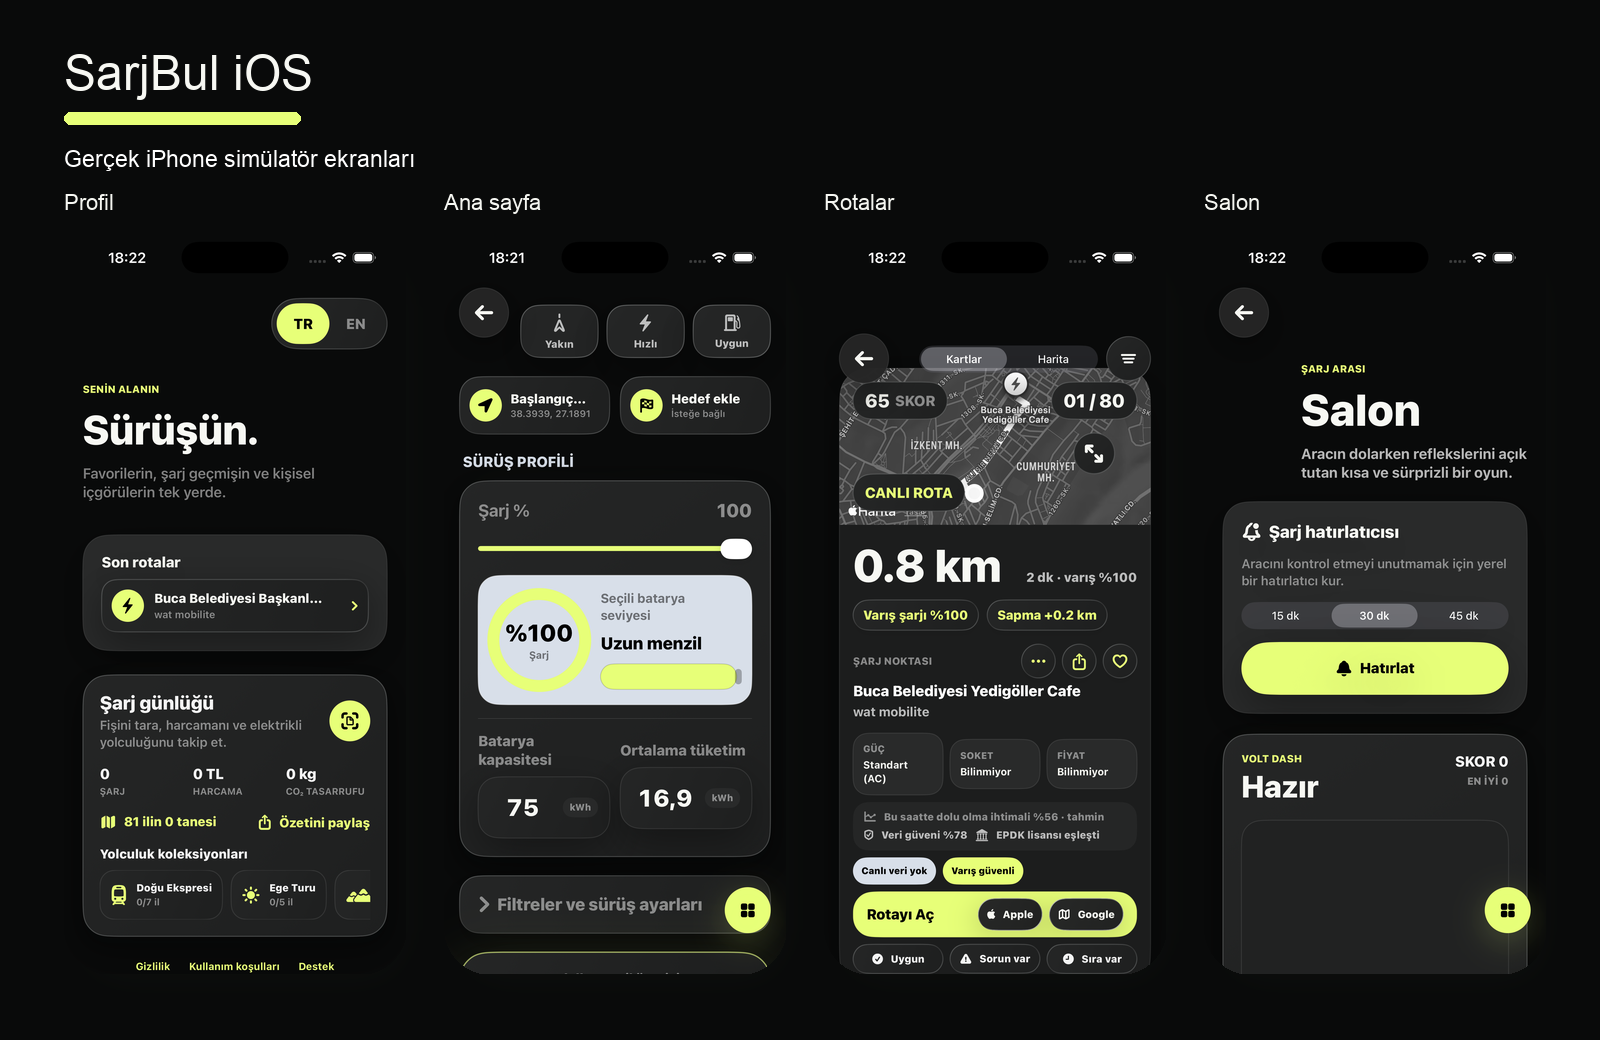
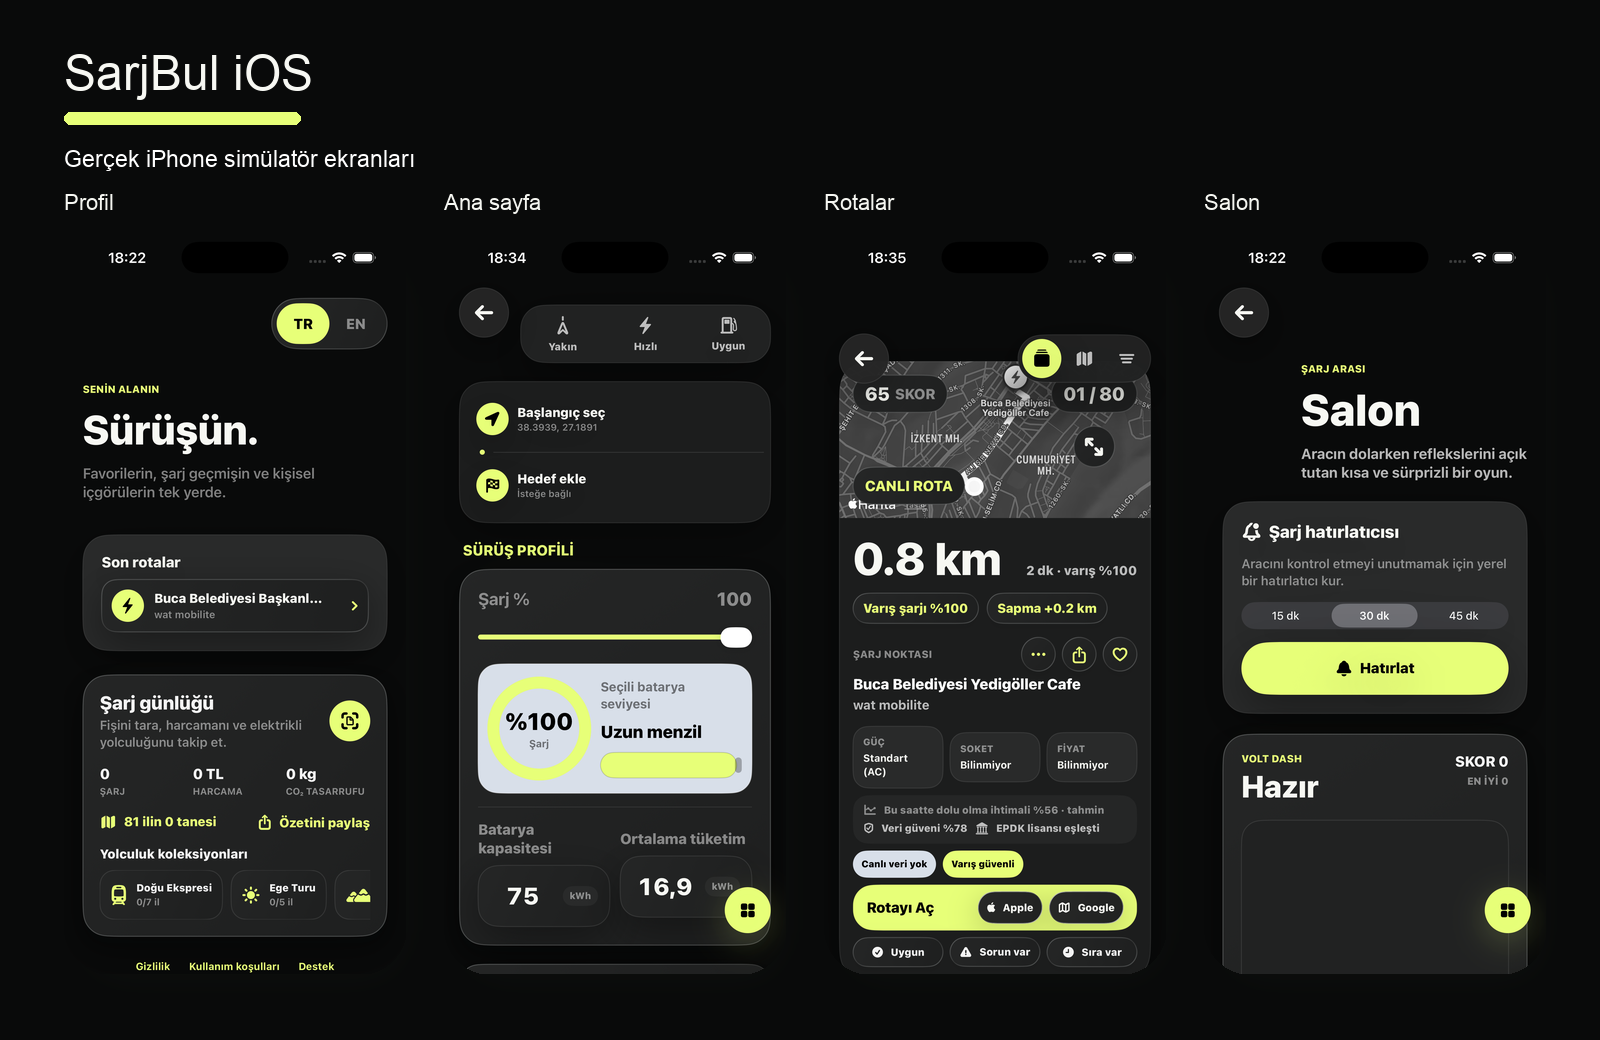
feat: refine home and route layouts

Changed region(s): [[0.2812, 0.2769, 0.5, 0.9538], [0.5312, 0.3077, 0.7188, 0.9538]]

diff --git a/SarjBul/Features/Stations/StationFeedView.swift b/SarjBul/Features/Stations/StationFeedView.swift
@@ -16,54 +16,7 @@ struct StationFeedView: View {
             ZStack(alignment: .topLeading) {
                 SBScreenBackground()
                 content
-
-                HStack(spacing: 10) {
-                    SBBackButton(accessibilityLabel: settings.t("nav.back")) {
-                        navigation.tab = .home
-                    }
-
-                    Spacer()
-
-                    if !search.routeCandidates.isEmpty {
-                        if search.tripPlan != nil {
-                            Button {
-                                Haptic.tap()
-                                tripPlanPresented = true
-                            } label: {
-                                Image(systemName: "bolt.car.fill")
-                                    .font(.headline.weight(.heavy))
-                                    .foregroundStyle(SBColor.ink)
-                                    .frame(width: 52, height: 52)
-                                    .sbPremiumGlass(radius: 26, interactive: true)
-                            }
-                            .buttonStyle(SBPremiumButtonStyle())
-                            .accessibilityLabel(settings.t("planner.title"))
-                        }
-
-                        Picker(settings.t("feed.view_mode"), selection: $mode) {
-                            Label(settings.t("feed.cards"), systemImage: "rectangle.stack").tag(FeedMode.cards)
-                            Label(settings.t("feed.map"), systemImage: "map").tag(FeedMode.map)
-                        }
-                        .pickerStyle(.segmented)
-                        .tint(SBColor.signal)
-                        .frame(maxWidth: 210)
-
-                        Button {
-                            Haptic.tap()
-                            filterSheetPresented = true
-                        } label: {
-                            Image(systemName: "line.3.horizontal.decrease")
-                                .font(.headline.weight(.heavy))
-                                .foregroundStyle(SBColor.ink)
-                                .frame(width: 52, height: 52)
-                                .sbPremiumGlass(radius: 26, interactive: true)
-                        }
-                        .buttonStyle(SBPremiumButtonStyle())
-                        .accessibilityLabel(settings.t("feed.filters"))
-                    }
-                }
-                .padding(.horizontal, 18)
-                .padding(.top, 6)
+                feedToolbar
             }
             .navigationDestination(for: AppRoute.self, destination: routeDestination)
         }
@@ -87,6 +40,79 @@ struct StationFeedView: View {
                     .environment(settings)
             }
         }
+    }
+
+    private var feedToolbar: some View {
+        HStack(spacing: 12) {
+            SBBackButton(accessibilityLabel: settings.t("nav.back")) {
+                navigation.tab = .home
+            }
+
+            Spacer(minLength: 8)
+
+            if !search.routeCandidates.isEmpty {
+                HStack(spacing: 4) {
+                    if search.tripPlan != nil {
+                        toolbarButton(
+                            icon: "bolt.car.fill",
+                            accessibilityLabel: settings.t("planner.title")
+                        ) {
+                            tripPlanPresented = true
+                        }
+                    }
+
+                    modeButton(.cards, icon: "rectangle.stack.fill", label: settings.t("feed.cards"))
+                    modeButton(.map, icon: "map.fill", label: settings.t("feed.map"))
+
+                    toolbarButton(
+                        icon: "line.3.horizontal.decrease",
+                        accessibilityLabel: settings.t("feed.filters")
+                    ) {
+                        filterSheetPresented = true
+                    }
+                }
+                .padding(5)
+                .background(SBColor.charcoal.opacity(0.98), in: Capsule())
+                .overlay(Capsule().stroke(SBColor.line, lineWidth: 1))
+                .sbCardShadow()
+            }
+        }
+        .padding(.horizontal, 18)
+        .padding(.top, 6)
+    }
+
+    private func modeButton(_ targetMode: FeedMode, icon: String, label: String) -> some View {
+        Button {
+            Haptic.tap()
+            mode = targetMode
+        } label: {
+            Image(systemName: icon)
+                .font(.headline.weight(.heavy))
+                .foregroundStyle(mode == targetMode ? SBColor.onSignal : SBColor.textSoft)
+                .frame(width: 46, height: 46)
+                .background(mode == targetMode ? SBColor.signal : .clear, in: Circle())
+        }
+        .buttonStyle(SBPremiumButtonStyle())
+        .accessibilityLabel(label)
+        .accessibilityAddTraits(mode == targetMode ? .isSelected : [])
+    }
+
+    private func toolbarButton(
+        icon: String,
+        accessibilityLabel: String,
+        action: @escaping () -> Void
+    ) -> some View {
+        Button {
+            Haptic.tap()
+            action()
+        } label: {
+            Image(systemName: icon)
+                .font(.headline.weight(.heavy))
+                .foregroundStyle(SBColor.textSoft)
+                .frame(width: 46, height: 46)
+        }
+        .buttonStyle(SBPremiumButtonStyle())
+        .accessibilityLabel(accessibilityLabel)
     }
 
     @ViewBuilder
@@ -153,7 +179,7 @@ struct StationFeedView: View {
                     if mode == .cards {
                         ScrollView {
                             LazyVStack(spacing: 18) {
-                                Color.clear.frame(height: 30)
+                                Color.clear.frame(height: 22)
                                 ForEach(Array(candidates.enumerated()), id: \.element.id) { index, candidate in
                                     StationCard(candidate: candidate, rank: index + 1, total: candidates.count)
                                         .frame(maxWidth: 680)

diff --git a/SarjBul/Features/Home/HomeView.swift b/SarjBul/Features/Home/HomeView.swift
@@ -78,6 +78,13 @@ struct HomeView: View {
             preferenceButton(.fastest, icon: "bolt.fill")
             preferenceButton(.economical, icon: "fuelpump")
         }
+        .padding(6)
+        .background(SBColor.charcoal, in: RoundedRectangle(cornerRadius: 28, style: .continuous))
+        .overlay(
+            RoundedRectangle(cornerRadius: 28, style: .continuous)
+                .stroke(SBColor.line, lineWidth: 1)
+        )
+        .sbCardShadow()
         .padding(.leading, 72)
         .padding(.top, 4)
     }
@@ -102,18 +109,26 @@ struct HomeView: View {
     }
 
     private var journeyInputs: some View {
-        ViewThatFits(in: .horizontal) {
-            HStack(spacing: 12) {
-                originJourneyButton
-                destinationJourneyButton
+        VStack(spacing: 0) {
+            originJourneyButton
+            HStack(spacing: 10) {
+                Circle()
+                    .fill(SBColor.signal)
+                    .frame(width: 6, height: 6)
+                Rectangle()
+                    .fill(SBColor.line)
+                    .frame(height: 1)
             }
-
-            VStack(spacing: 10) {
-                originJourneyButton
-                destinationJourneyButton
-            }
+            .padding(.leading, 16)
+            destinationJourneyButton
         }
-        .padding(.leading, 0)
+        .padding(8)
+        .background(SBColor.surfaceSolid, in: RoundedRectangle(cornerRadius: SBRadius.xl, style: .continuous))
+        .overlay(
+            RoundedRectangle(cornerRadius: SBRadius.xl, style: .continuous)
+                .stroke(SBColor.line, lineWidth: 1)
+        )
+        .sbSoftShadow()
     }
 
     private var originJourneyButton: some View {
@@ -180,8 +195,8 @@ struct HomeView: View {
             }
             .padding(12)
             .frame(maxWidth: .infinity)
-            .frame(height: 68)
-            .sbPremiumGlass(radius: SBRadius.lg, interactive: true)
+            .frame(height: 72)
+            .contentShape(RoundedRectangle(cornerRadius: SBRadius.lg, style: .continuous))
         }
         .buttonStyle(SBPremiumButtonStyle())
     }
@@ -244,7 +259,7 @@ struct HomeView: View {
         VStack(alignment: .leading, spacing: 12) {
             Text(settings.t("catalog.kicker"))
                 .font(.headline.weight(.heavy))
-                .foregroundStyle(SBColor.primaryDeep)
+                .foregroundStyle(SBColor.signal)
                 .textCase(.uppercase)
                 .padding(.horizontal, 4)
 
@@ -516,15 +531,13 @@ private struct QuickActionStyle: ButtonStyle {
             .font(.subheadline.weight(.bold))
             .foregroundStyle(active ? SBColor.onSignal : SBColor.textSoft)
             .frame(maxWidth: .infinity)
-            .frame(height: 62)
-            .background(active ? SBColor.signal : SBColor.glassStrong.opacity(0.72))
-            .clipShape(RoundedRectangle(cornerRadius: 22, style: .continuous))
-            .sbPremiumGlass(radius: 22, interactive: true)
+            .frame(height: 56)
+            .background(active ? SBColor.signal : .clear)
+            .clipShape(RoundedRectangle(cornerRadius: 20, style: .continuous))
             .overlay(
-                RoundedRectangle(cornerRadius: 22, style: .continuous)
-                    .stroke(active ? .black.opacity(0.12) : SBColor.line, lineWidth: 1)
+                RoundedRectangle(cornerRadius: 20, style: .continuous)
+                    .stroke(active ? .black.opacity(0.12) : .clear, lineWidth: 1)
             )
-            .sbSoftShadow()
             .scaleEffect(configuration.isPressed ? 0.97 : 1)
             .animation(.spring(response: 0.3, dampingFraction: 0.7), value: configuration.isPressed)
     }
